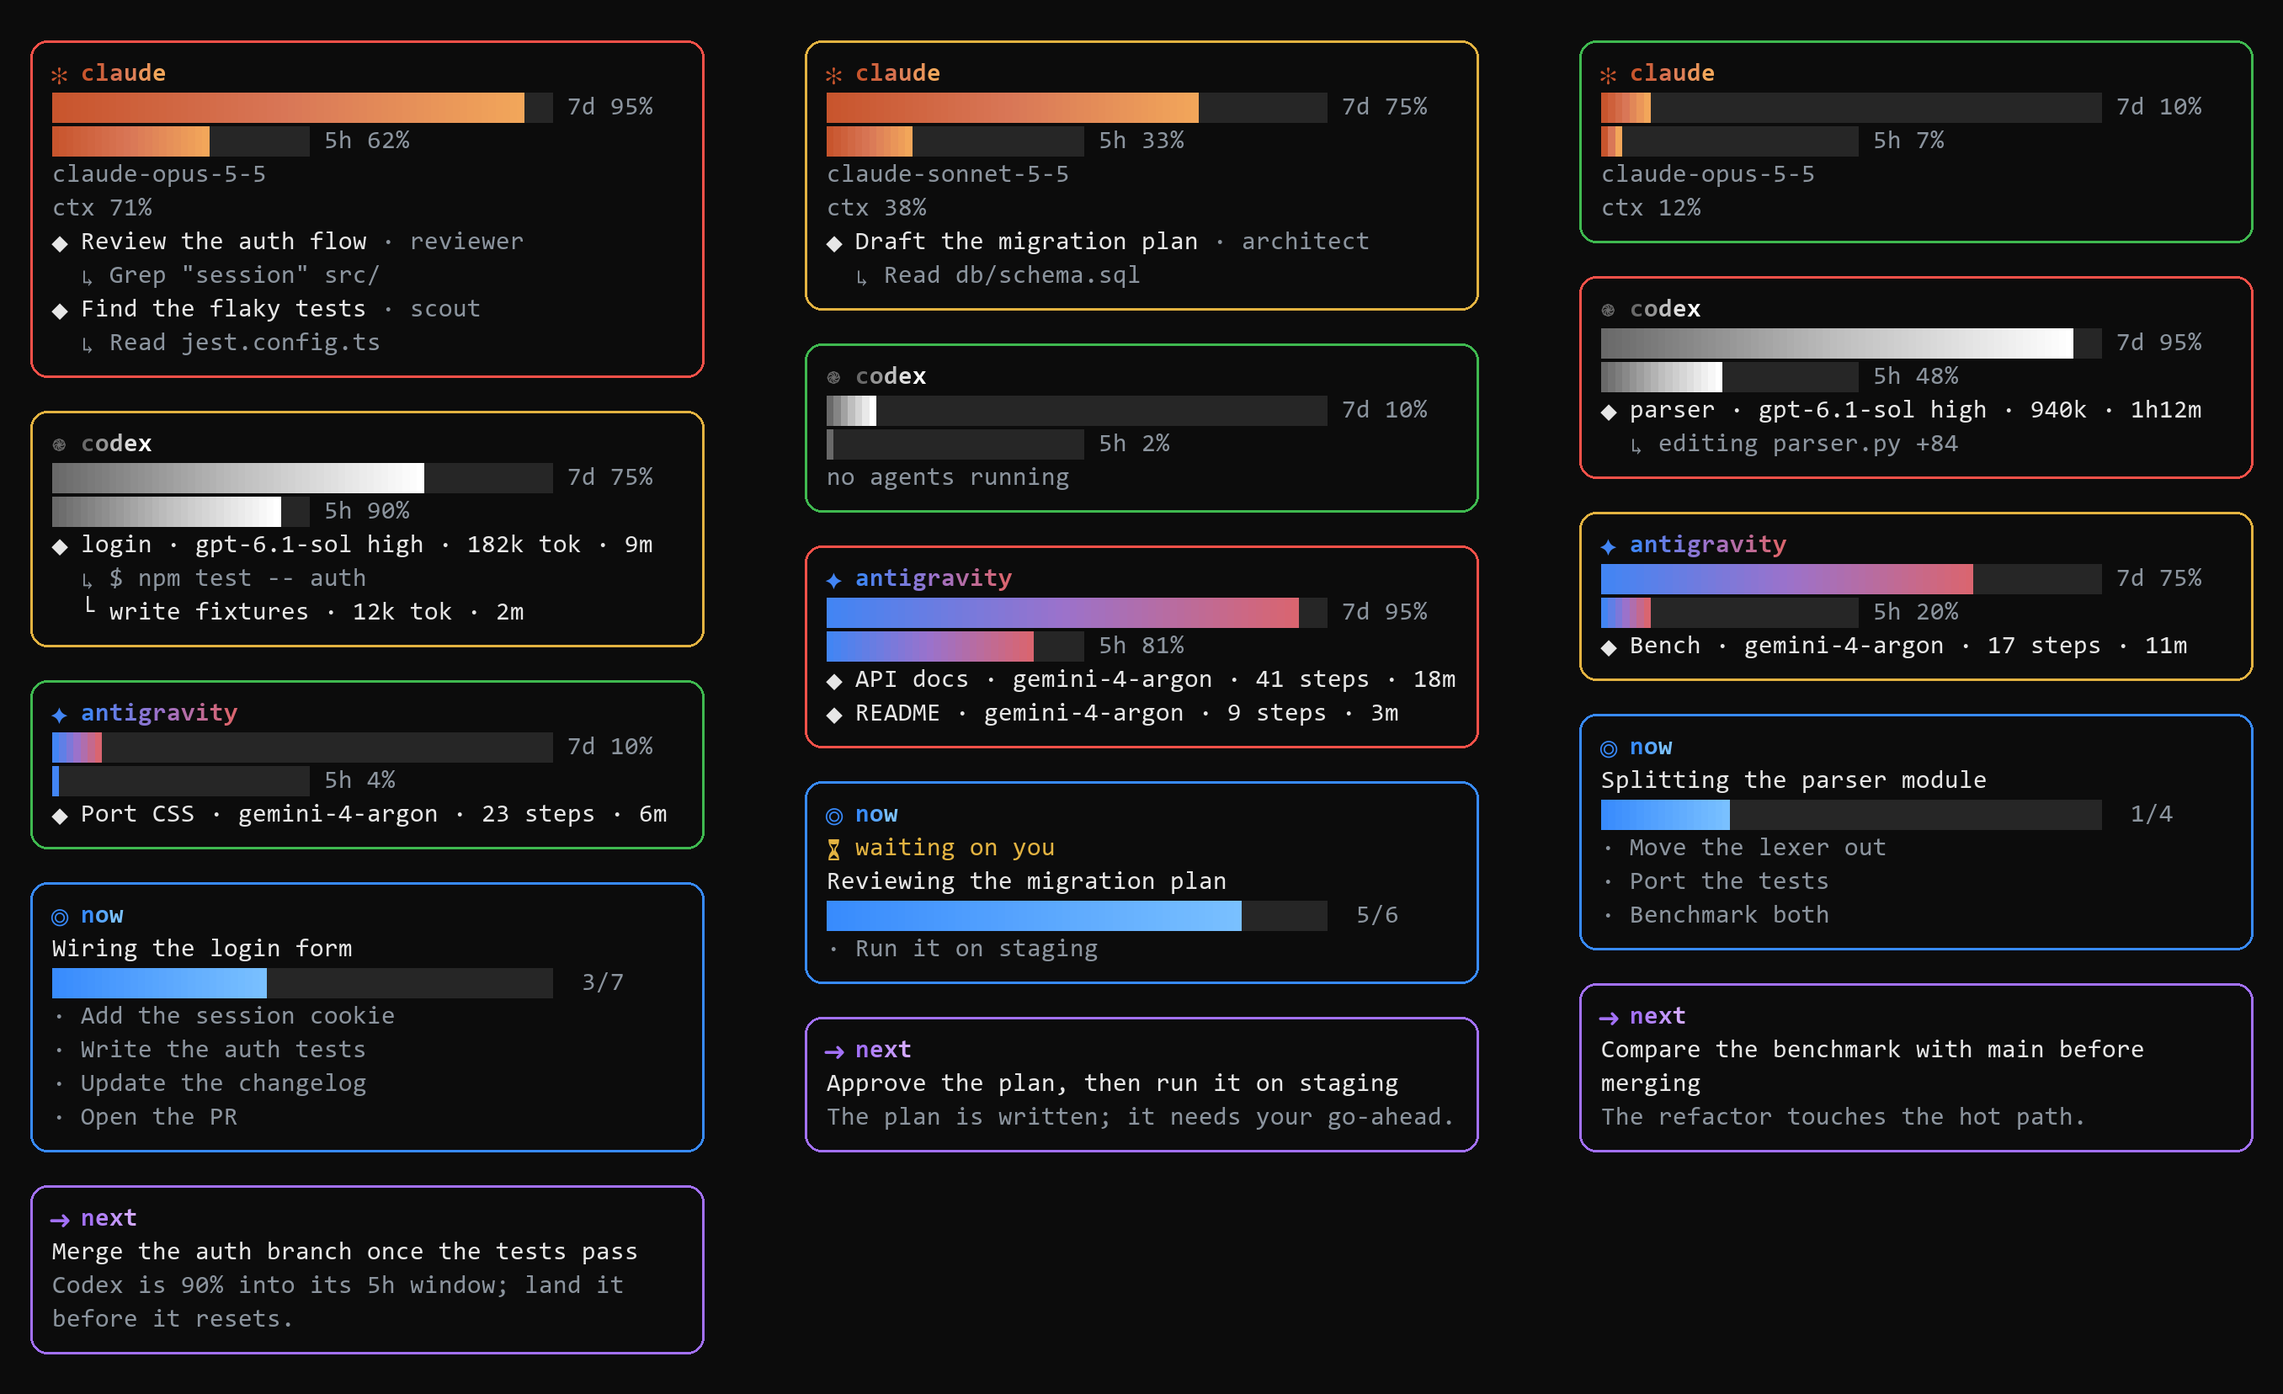
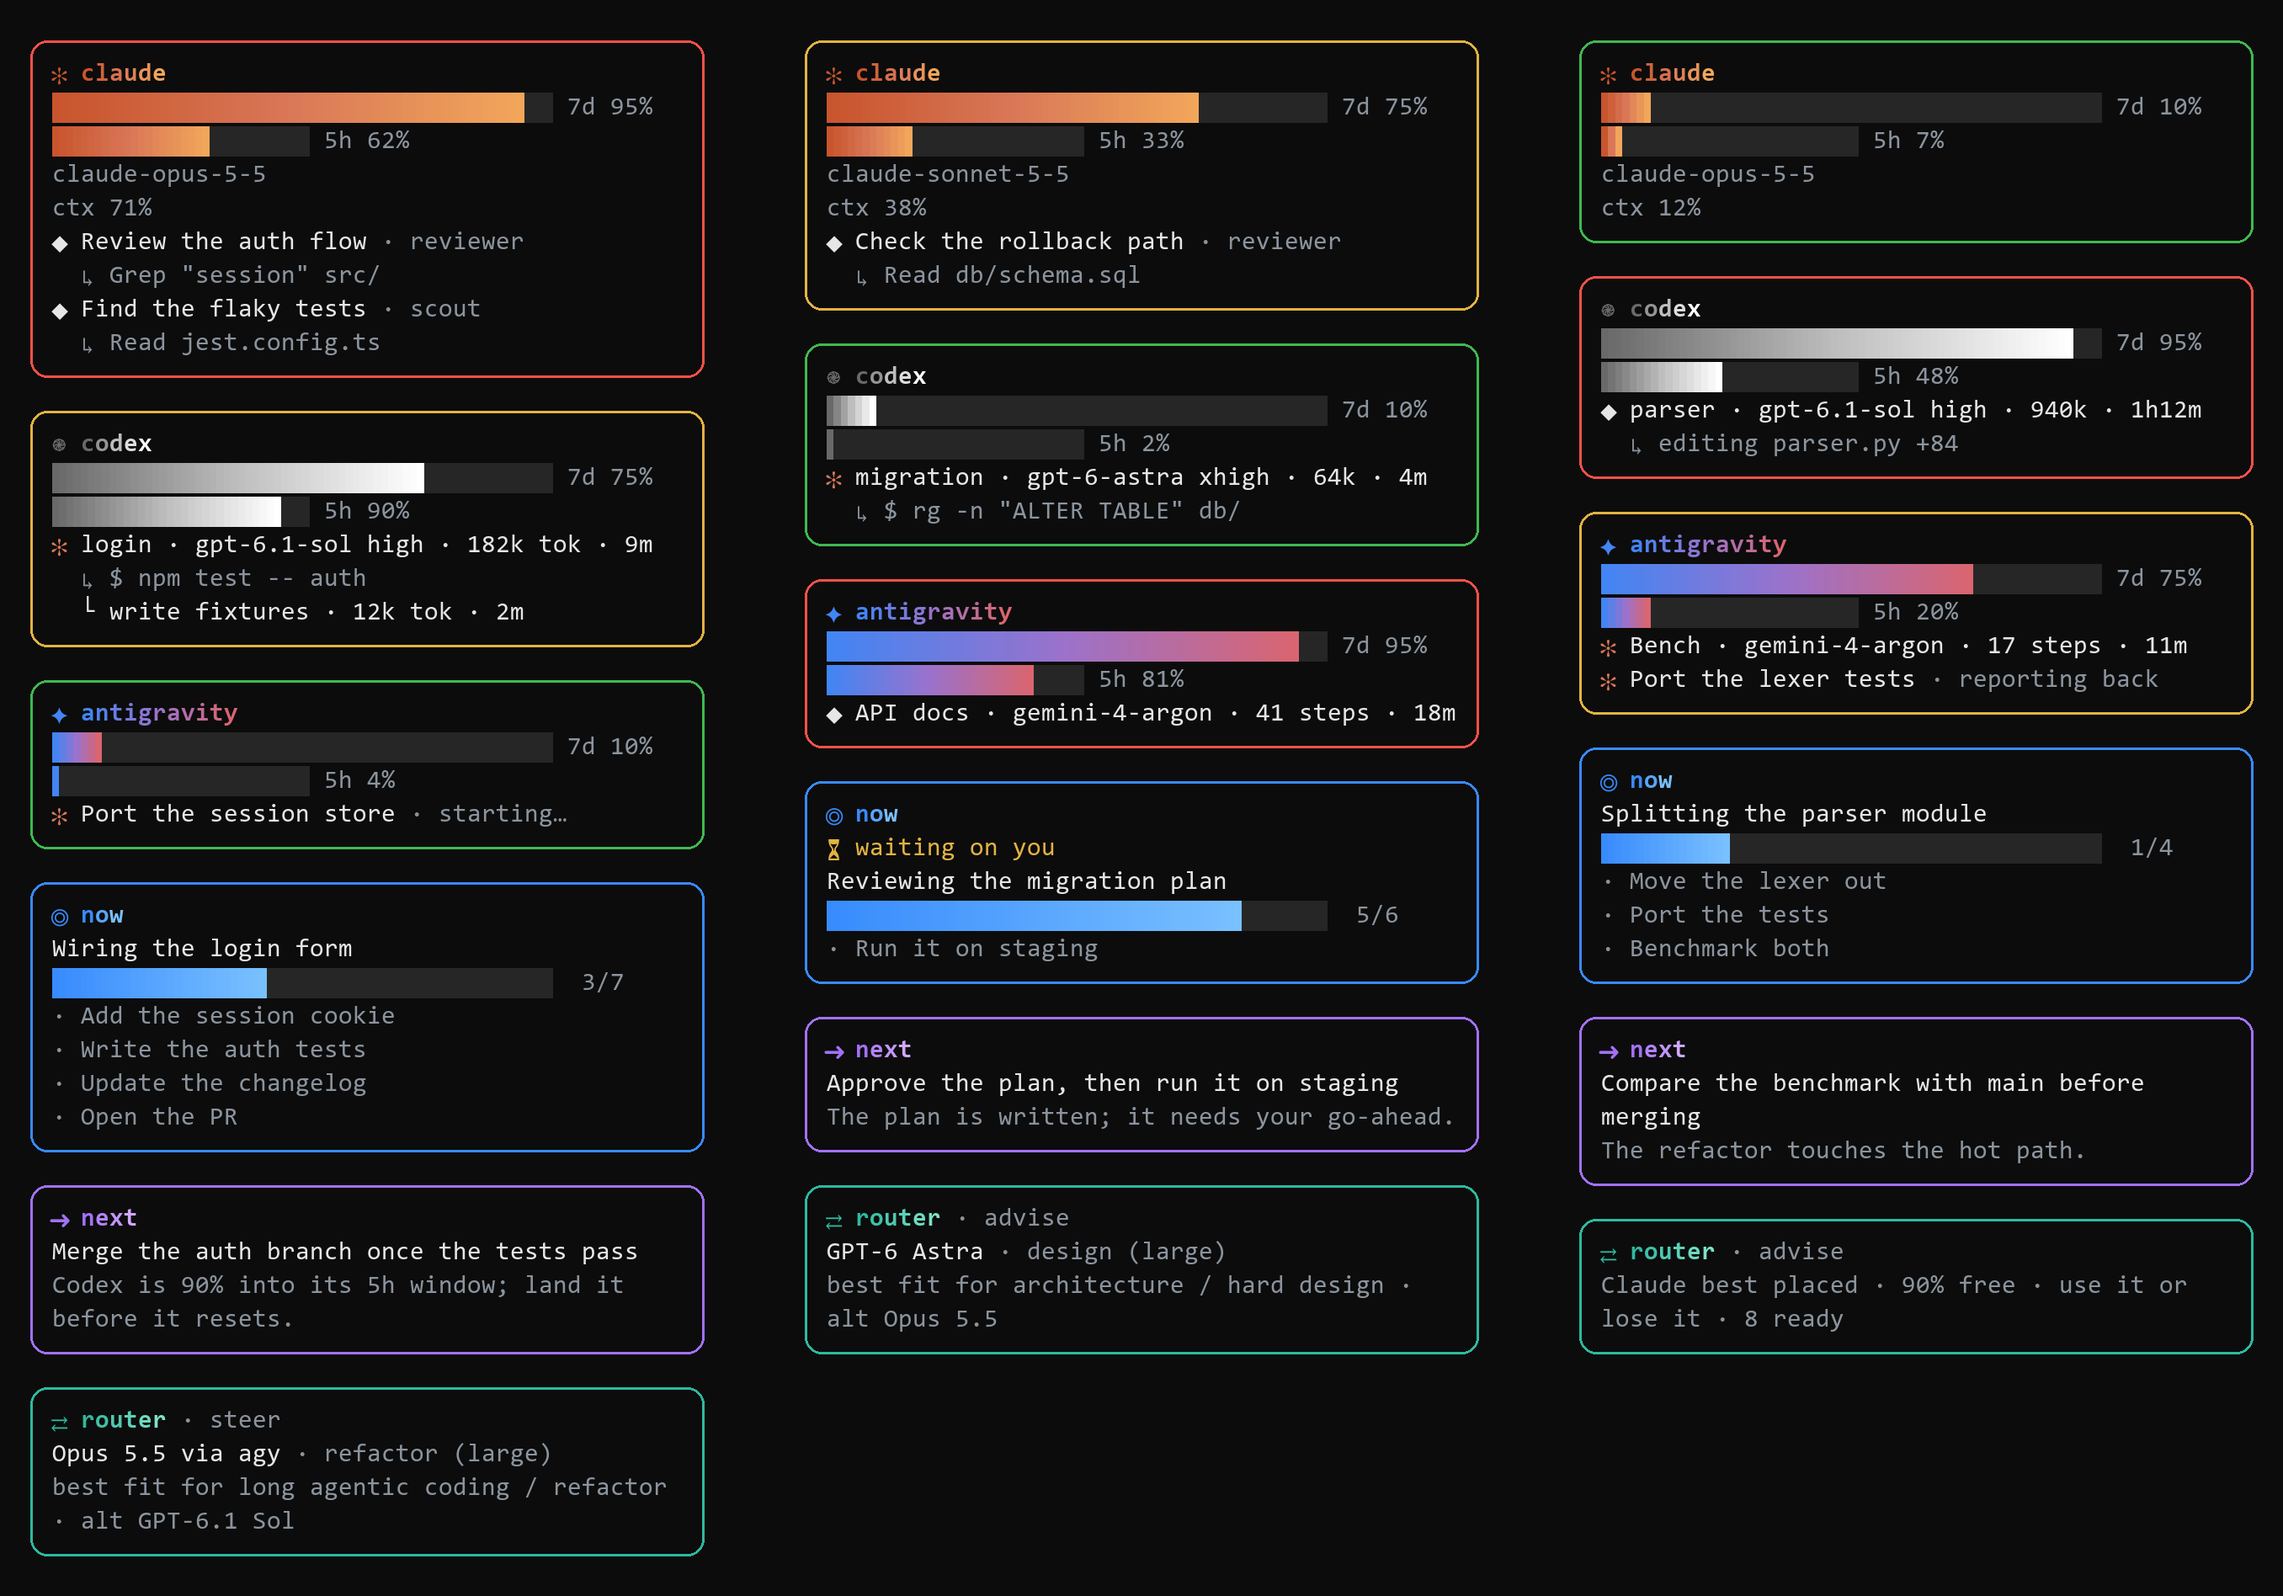
README: screenshots with the Router box and relay rows
- Redrawn screenshots: each side bar ends with the Router box, one per
  router state (steer to Opus via agy, advise to Astra, best placed before
  any prompt), and relay runs show with Claude's ✻
- Intro bullets cover Now's waiting marker, Next's reason, the Router box
  and relay rows; a caption explains the three scenes
- docs/make_shots.py, the script that draws them

diff --git a/docs/make_shots.py b/docs/make_shots.py
@@ -1,0 +1,226 @@
+"""Simulated agent-boxes side bar screenshots, drawn cell by cell with the plugin's own
+colours, meter maths and layout (hooks/register.tsx), at 2x for crisp README images.
+Needs Pillow and the Windows Consolas and Segoe UI Symbol fonts: python docs/make_shots.py docs"""
+import os
+import sys
+from PIL import Image, ImageDraw, ImageFont
+
+OUT = sys.argv[1]
+S = 2  # pixel scale
+FONT = ImageFont.truetype("C:/Windows/Fonts/consola.ttf", 15 * S)
+BOLD = ImageFont.truetype("C:/Windows/Fonts/consolab.ttf", 15 * S)
+SYM = ImageFont.truetype("C:/Windows/Fonts/seguisym.ttf", 14 * S)
+CW = round(FONT.getlength("M"))
+CH = round(15 * S * 1.32)
+COLS = 48  # bodyColumns, the plugin's default width
+INNER = COLS - 4  # less border and padding
+METER = max(8, COLS - 4 - 9)
+METER5 = max(6, round(METER / 2 + 1e-9))
+
+TERM = (12, 12, 12)  # the terminal's black (background option "black")
+FG = "#e6e6e6"
+DIM = "#8b949e"
+YELLOW = "#e3b341"
+TRACK = "#262626"
+
+CLAUDE = [(200, 85, 45), (217, 119, 87), (242, 166, 90)]
+OPENAI = [(105, 105, 105), (190, 190, 190), (255, 255, 255)]
+GEMINI = [(66, 133, 244), (155, 114, 203), (217, 101, 112)]
+NOW = [(56, 139, 253), (121, 192, 255)]
+NEXT = [(163, 113, 247), (210, 168, 255)]
+ROUTER = [(45, 186, 160), (125, 226, 200)]
+
+
+def heat(used):
+    return "#f85149" if used >= 85 else YELLOW if used >= 60 else "#3fb950"
+
+
+def blend(stops, f):
+    t = min(1, max(0, f)) * (len(stops) - 1)
+    i = min(len(stops) - 2, int(t))
+    a, b = stops[i], stops[i + 1]
+    return "#%02x%02x%02x" % tuple(round(a[k] + (b[k] - a[k]) * (t - i)) for k in range(3))
+
+
+# A row is a list of cells: (char, fg, bg, bold).
+def text(s, fg=FG, bold=False):
+    return [(ch, fg, None, bold) for ch in s]
+
+
+def title(icon, name, brand):
+    cells = [(icon, blend(brand, 0), None, True), (" ", None, None, False)]
+    n = max(1, len(name) - 1)
+    return cells + [(ch, blend(brand, i / n), None, True) for i, ch in enumerate(name)]
+
+
+def meter(label, used, brand, width, shown=None):
+    shown = shown if shown is not None else f"{round(used)}%"
+    share = min(100, used) / 100
+    halves = max(1, round(share * width * 2)) if share > 0 else 0
+
+    def shade(h):
+        return blend(brand, h / max(1, halves - 1)) if h < halves else TRACK
+
+    cells = [("▌", shade(2 * i), shade(2 * i + 1), False) for i in range(width)]
+    return cells + text(f" {label} {shown}", DIM)
+
+
+def wrap(cells):
+    """Ink-style wrap at the box's inner width, breaking at spaces."""
+    rows = []
+    while len(cells) > INNER:
+        cut = max((i for i in range(INNER) if cells[i][0] == " "), default=INNER)
+        rows.append(cells[:cut])
+        cells = [(" ", None, None, False)] * 2 + cells[cut + 1:] if cells[0][0] in "◆└·" else cells[cut + 1:]
+    return rows + [cells]
+
+
+def card(icon, name, brand, used7, used5, body):
+    rows = [title(icon, name, brand), meter("7d", used7, brand, METER), meter("5h", used5, brand, METER5)]
+    return heat(used7), rows + body
+
+
+def plain(icon, name, brand, body):
+    return blend(brand, 0), [title(icon, name, brand)] + body
+
+
+def agent(line, now=None, depth=0, kind=None, relay=False):
+    """A run; a relay's run has Claude's ✻ in front instead of ◆."""
+    if relay:
+        head = [("✻", blend(CLAUDE, 0.5), None, False), (" ", None, None, False)] + text(line)
+    else:
+        head = text("  " * depth + ("◆ " if depth == 0 else "└ ") + line)
+    if kind:
+        head += text(f" · {kind}", DIM)
+    out = wrap(head)
+    if now:
+        out += wrap(text("  " * depth + "  ↳ " + now, DIM))
+    return out
+
+
+def draw(boxes, path):
+    rows = sum(len(b[1]) + 2 for b in boxes)
+    pad = 14 * S
+    img = Image.new("RGB", (COLS * CW + 2 * pad, rows * CH + 2 * pad), TERM)
+    d = ImageDraw.Draw(img)
+    y = pad
+    for border, body in boxes:
+        h = (len(body) + 2) * CH
+        x0, y0 = pad + CW // 2, y + CH // 2
+        x1, y1 = pad + COLS * CW - CW // 2, y + h - CH // 2
+        d.rounded_rectangle([x0, y0, x1, y1], radius=CH // 2, outline=border, width=max(2, S + 1))
+        for r, cells in enumerate(body):
+            cy = y + (r + 1) * CH
+            for c, (ch, fg, bg, bold) in enumerate(cells[:INNER]):
+                cx = pad + (c + 2) * CW
+                if ch == "▌":
+                    d.rectangle([cx, cy + S, cx + CW // 2 - 1, cy + CH - 1 - S], fill=fg)
+                    d.rectangle([cx + CW // 2, cy + S, cx + CW - 1, cy + CH - 1 - S], fill=bg)
+                    continue
+                if ch == " ":
+                    continue
+                font = BOLD if bold else FONT
+                if not font.getmask(ch).getbbox() or ord(ch) in (0x2726, 0x273B, 0x25CE, 0x279C, 0x23F3, 0x25C6, 0x21B3, 0x21C4):
+                    font = SYM
+                w = font.getlength(ch)
+                d.text((cx + (CW - w) / 2, cy + CH / 2), ch, font=font, fill=fg, anchor="lm")
+        y += h
+    img.save(path, optimize=True)
+    return img
+
+
+SCENES = {
+    # Claude past its 7-day limit: the router steers to Opus on agy's quota; a relay runs on Codex.
+    "crunch": dict(
+        claude=(95, 62, "claude-opus-5-5", 71, [
+            ("Review the auth flow", "Grep \"session\" src/", "reviewer"),
+            ("Find the flaky tests", "Read jest.config.ts", "scout"),
+        ]),
+        codex=(75, 90, [
+            ("login · gpt-6.1-sol high · 182k tok · 9m", "$ npm test -- auth", 0, True),
+            ("write fixtures · 12k tok · 2m", None, 1, False),
+        ], []),
+        agy=(10, 4, [], [("Port the session store", "starting…")]),
+        now=dict(waiting=False, task="Wiring the login form", done=3, total=7,
+                 steps=["Add the session cookie", "Write the auth tests", "Update the changelog", "Open the PR"]),
+        next=("Merge the auth branch once the tests pass", "Codex is 90% into its 5h window; land it before it resets."),
+        router=("steer", "Opus 5.5 via agy", "refactor (large)", "best fit for long agentic coding / refactor", "GPT-6.1 Sol"),
+    ),
+    # Antigravity near its limit: the router sends a design task to Codex, and Astra is on it.
+    "steady": dict(
+        claude=(75, 33, "claude-sonnet-5-5", 38, [("Check the rollback path", "Read db/schema.sql", "reviewer")]),
+        codex=(10, 2, [
+            ("migration · gpt-6-astra xhigh · 64k · 4m", "$ rg -n \"ALTER TABLE\" db/", 0, True),
+        ], []),
+        agy=(95, 81, [
+            ("API docs · gemini-4-argon · 41 steps · 18m", None, 0, False),
+        ], []),
+        now=dict(waiting=True, task="Reviewing the migration plan", done=5, total=6, steps=["Run it on staging"]),
+        next=("Approve the plan, then run it on staging", "The plan is written; it needs your go-ahead."),
+        router=("advise", "GPT-6 Astra", "design (large)", "best fit for architecture / hard design", "Opus 5.5"),
+    ),
+    # Before any routed prompt: the router shows the pool best placed now.
+    "light": dict(
+        claude=(10, 7, "claude-opus-5-5", 12, []),
+        codex=(95, 48, [
+            ("parser · gpt-6.1-sol high · 940k · 1h12m", "editing parser.py +84", 0, False),
+        ], []),
+        agy=(75, 20, [
+            ("Bench · gemini-4-argon · 17 steps · 11m", None, 0, True),
+        ], [("Port the lexer tests", "reporting back")]),
+        now=dict(waiting=False, task="Splitting the parser module", done=1, total=4,
+                 steps=["Move the lexer out", "Port the tests", "Benchmark both"]),
+        next=("Compare the benchmark with main before merging", "The refactor touches the hot path."),
+        router=("advise", None, None, "Claude best placed · 90% free · use it or lose it · 8 ready", None),
+    ),
+}
+
+
+def boxes(sc):
+    u7, u5, model, ctx, subs = sc["claude"]
+    claude_body = [text(model, DIM), text(f"ctx {ctx}%", DIM)]
+    for label, now, kind in subs:
+        claude_body += agent(label, now, kind=kind)
+
+    def tool_body(agents, waiting):
+        if not agents and not waiting:
+            return [text("no agents running", DIM)]
+        out = []
+        for line, now, depth, relay in agents:
+            out += agent(line, now, depth, relay=relay)
+        for label, state in waiting:
+            out += wrap(agent(label, relay=True)[0] + text(f" · {state}", DIM))
+        return out
+
+    n = sc["now"]
+    now_body = [text("⏳ waiting on you", YELLOW)] if n["waiting"] else []
+    now_body += [text(n["task"]), meter("", 100 * n["done"] / n["total"], NOW, METER, f"{n['done']}/{n['total']}")]
+    now_body += [text(f"· {s}", DIM) for s in n["steps"]]
+    nxt, why = sc["next"]
+
+    mode, pick, routed, reason, alt = sc["router"]
+    router_title = title("⇄", "router", ROUTER) + text(f" · {mode}", DIM)
+    if pick:
+        router_body = wrap(text(pick) + text(f" · {routed}", DIM)) + wrap(text(reason + (f" · alt {alt}" if alt else ""), DIM))
+    else:
+        router_body = wrap(text(reason, DIM))
+    return [
+        card("✻", "claude", CLAUDE, u7, u5, claude_body),
+        card("֎", "codex", OPENAI, sc["codex"][0], sc["codex"][1], tool_body(*sc["codex"][2:])),
+        card("✦", "antigravity", GEMINI, sc["agy"][0], sc["agy"][1], tool_body(*sc["agy"][2:])),
+        plain("◎", "now", NOW, now_body),
+        plain("➜", "next", NEXT, wrap(text(nxt)) + wrap(text(why, DIM))),
+        (blend(ROUTER, 0), [router_title] + router_body),
+    ]
+
+
+os.makedirs(OUT, exist_ok=True)
+imgs = [draw(boxes(sc), os.path.join(OUT, f"{name}.png")) for name, sc in SCENES.items()]
+gap = 24 * S
+hero = Image.new("RGB", (sum(i.width for i in imgs) + gap * (len(imgs) - 1), max(i.height for i in imgs)), TERM)
+x = 0
+for i in imgs:
+    hero.paste(i, (x, 0))
+    x += i.width + gap
+hero.save(os.path.join(OUT, "hero.png"), optimize=True)
+print("wrote", [f for f in os.listdir(OUT)])

diff --git a/README.md b/README.md
@@ -3,14 +3,20 @@
 A side bar for [Claude Code](https://claude.com/claude-code) that shows, at a glance:
 
 - **Usage meters** for Claude, and for [Codex](https://github.com/openai/codex) and Antigravity if you use them: the 7-day and 5-hour windows, with a border that turns yellow at 60% and red at 85%.
-- **What every running agent is doing**: Claude's subagents and any Codex runs this chat started, each with its latest action (`↳ $ npm test`, `↳ editing app.ts`), plus any Antigravity runs this chat started (title, model, steps and elapsed time).
-- **Now**: the task in progress, a progress bar, and the steps left, taken from Claude's task list.
-- **Next**: a one-line recommendation for what to do after this turn.
-- **Router**: who should take the task you just asked for, picked across Claude, Codex and Antigravity from public benchmarks and live quota (see [Router](#router)).
+- **What every running agent is doing**: Claude's subagents and any Codex runs this chat started, each with its latest action (`↳ $ npm test`, `↳ editing app.ts`), plus any Antigravity runs this chat started (title, model, steps and elapsed time). Runs that Claude hands to Codex or Antigravity through the relays show in that tool's box, marked `✻`.
+- **Now**: the task in progress, a progress bar, and the steps left, taken from Claude's task list (or summarised when there is none), plus `⏳ waiting on you` when Claude needs your answer.
+- **Next**: a one-line recommendation for what to do after this turn, and why.
+- **Router**: who should take the task you just asked for, picked across Claude, Codex and Antigravity from public benchmarks and live quota. The Router box shows the pick, the reason and a fallback (see [Router](#router)).
 
-![agent-boxes: three example side bars, each with Claude, Codex, Antigravity, Now and Next boxes](docs/hero.png)
+![agent-boxes: three example side bars, each with Claude, Codex, Antigravity, Now, Next and Router boxes](docs/hero.png)
 
-Each box's border goes green, then yellow at 60% of its 7-day window, then red at 85%. The meters are gradients in each company's colours. These are simulated examples; the side bar is 48 columns wide by default. Full size: [crunch](docs/crunch.png) · [steady](docs/steady.png) · [light](docs/light.png).
+Each usage box's border goes green, then yellow at 60% of its 7-day window, then red at 85%. The meters are gradients in each company's colours. A run with Claude's `✻` in front was started by one of Claude's relay subagents; `starting…` and `reporting back` mark a relay before its run turns up and after it ends. The three side bars show three states of the router:
+
+- **crunch:** Claude is past its 7-day limit, so in `steer` mode the router sends a refactor to Opus on agy's quota.
+- **steady:** Antigravity is nearly out, so a design task goes to GPT-6 Astra, which is already running it in the Codex box.
+- **light:** no prompt has been routed yet, so the router shows the pool best placed right now.
+
+These are simulated examples; the side bar is 48 columns wide by default. Full size: [crunch](docs/crunch.png) · [steady](docs/steady.png) · [light](docs/light.png).
 
 ## Install
 
@@ -164,6 +170,8 @@ In `plugins/agent-boxes/`:
 - `hooks/catalog.ts` holds the executors and rankings.
 - `agents/` holds the Codex and agy relays.
 - `scripts/` holds the Codex and Antigravity scanners.
+
+`docs/make_shots.py` draws the README screenshots from made-up scenes, with the side bar's own colours and layout: `python docs/make_shots.py docs` (needs Pillow and the Windows Consolas font).
 
 ## License
 
